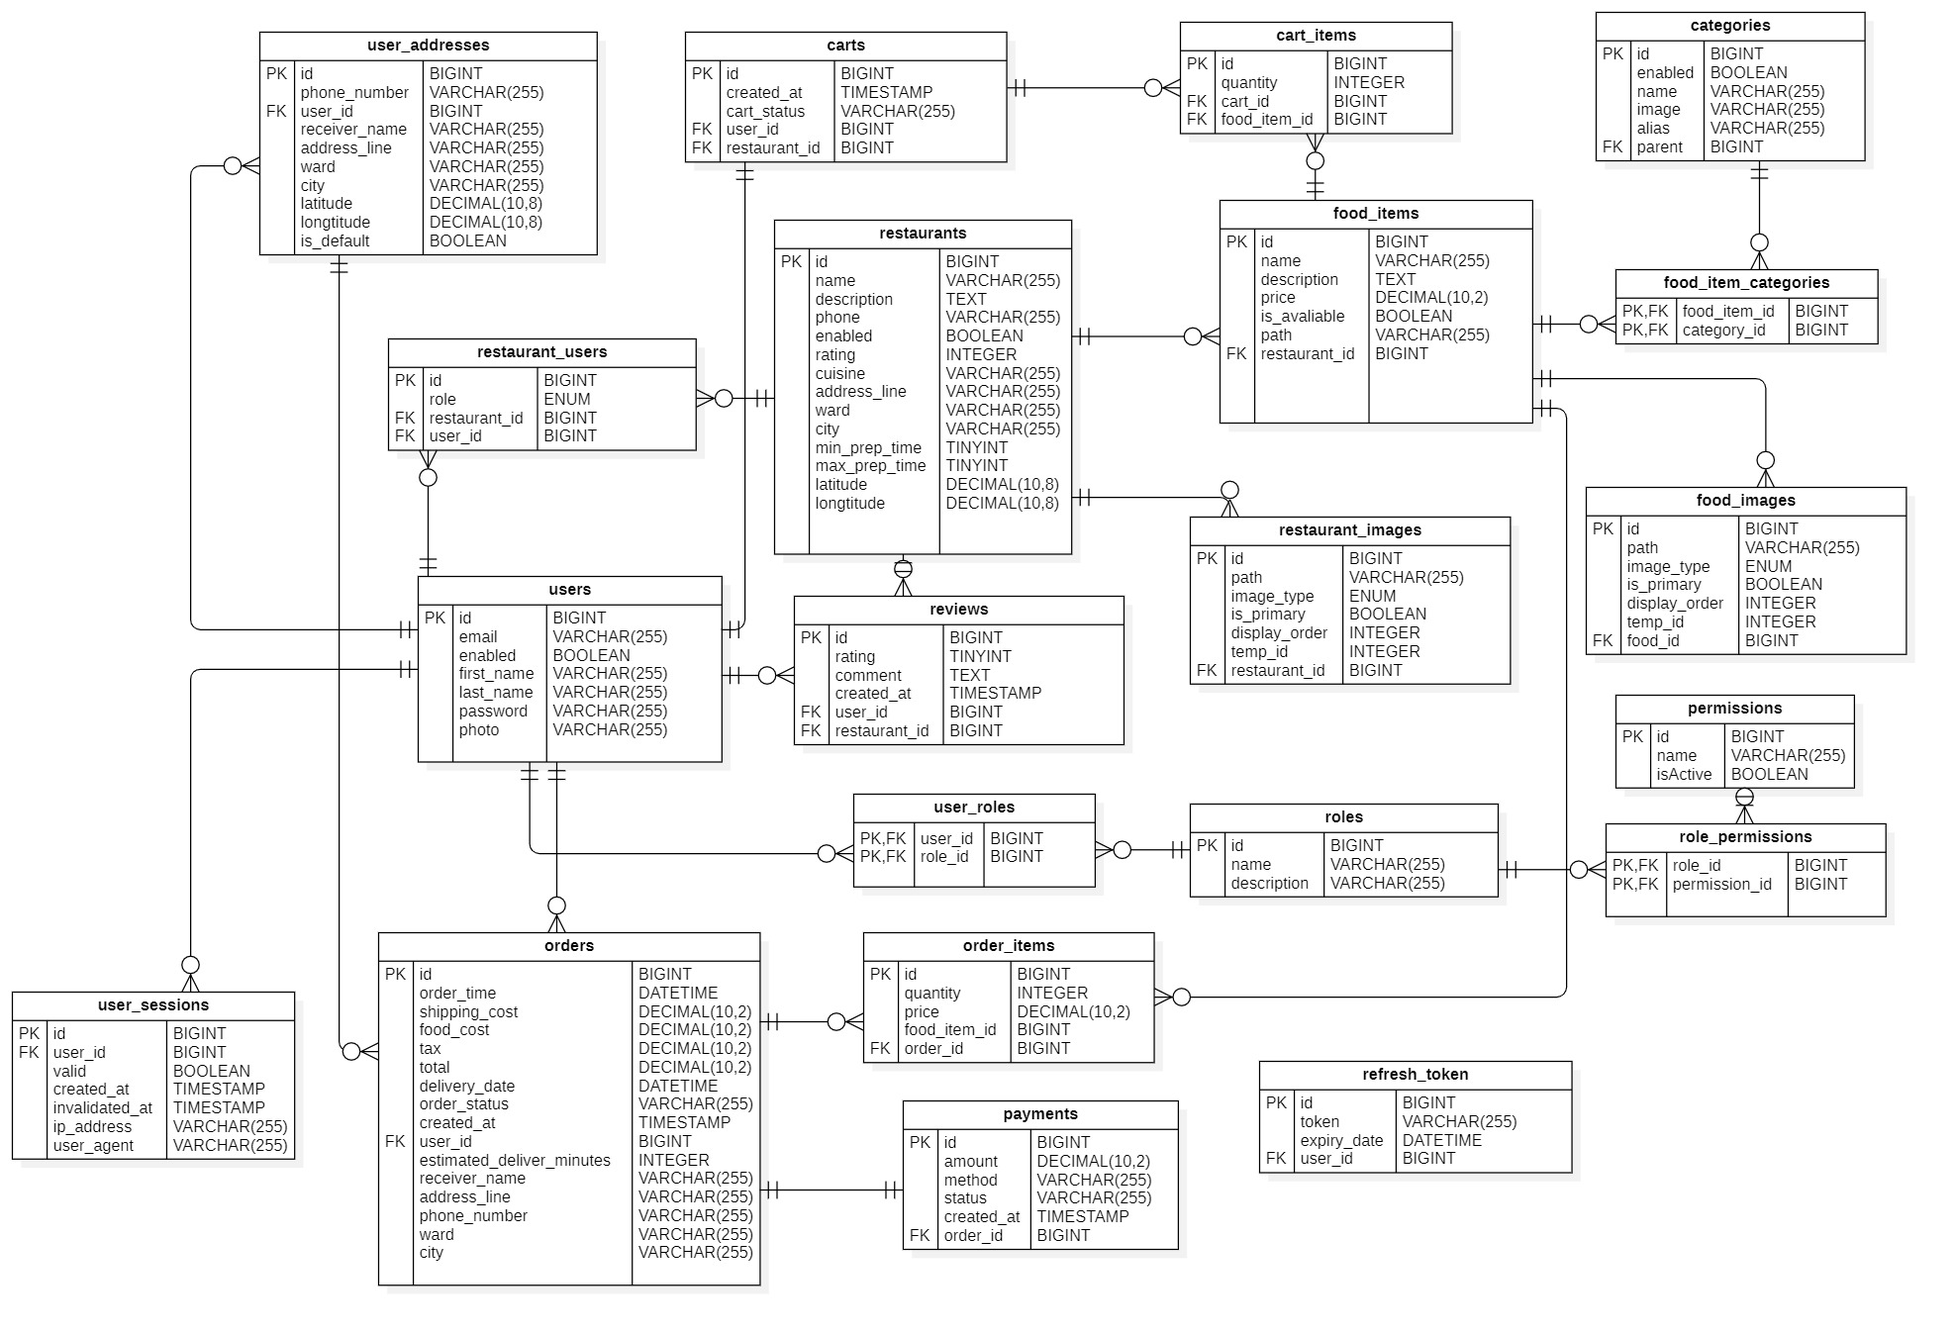
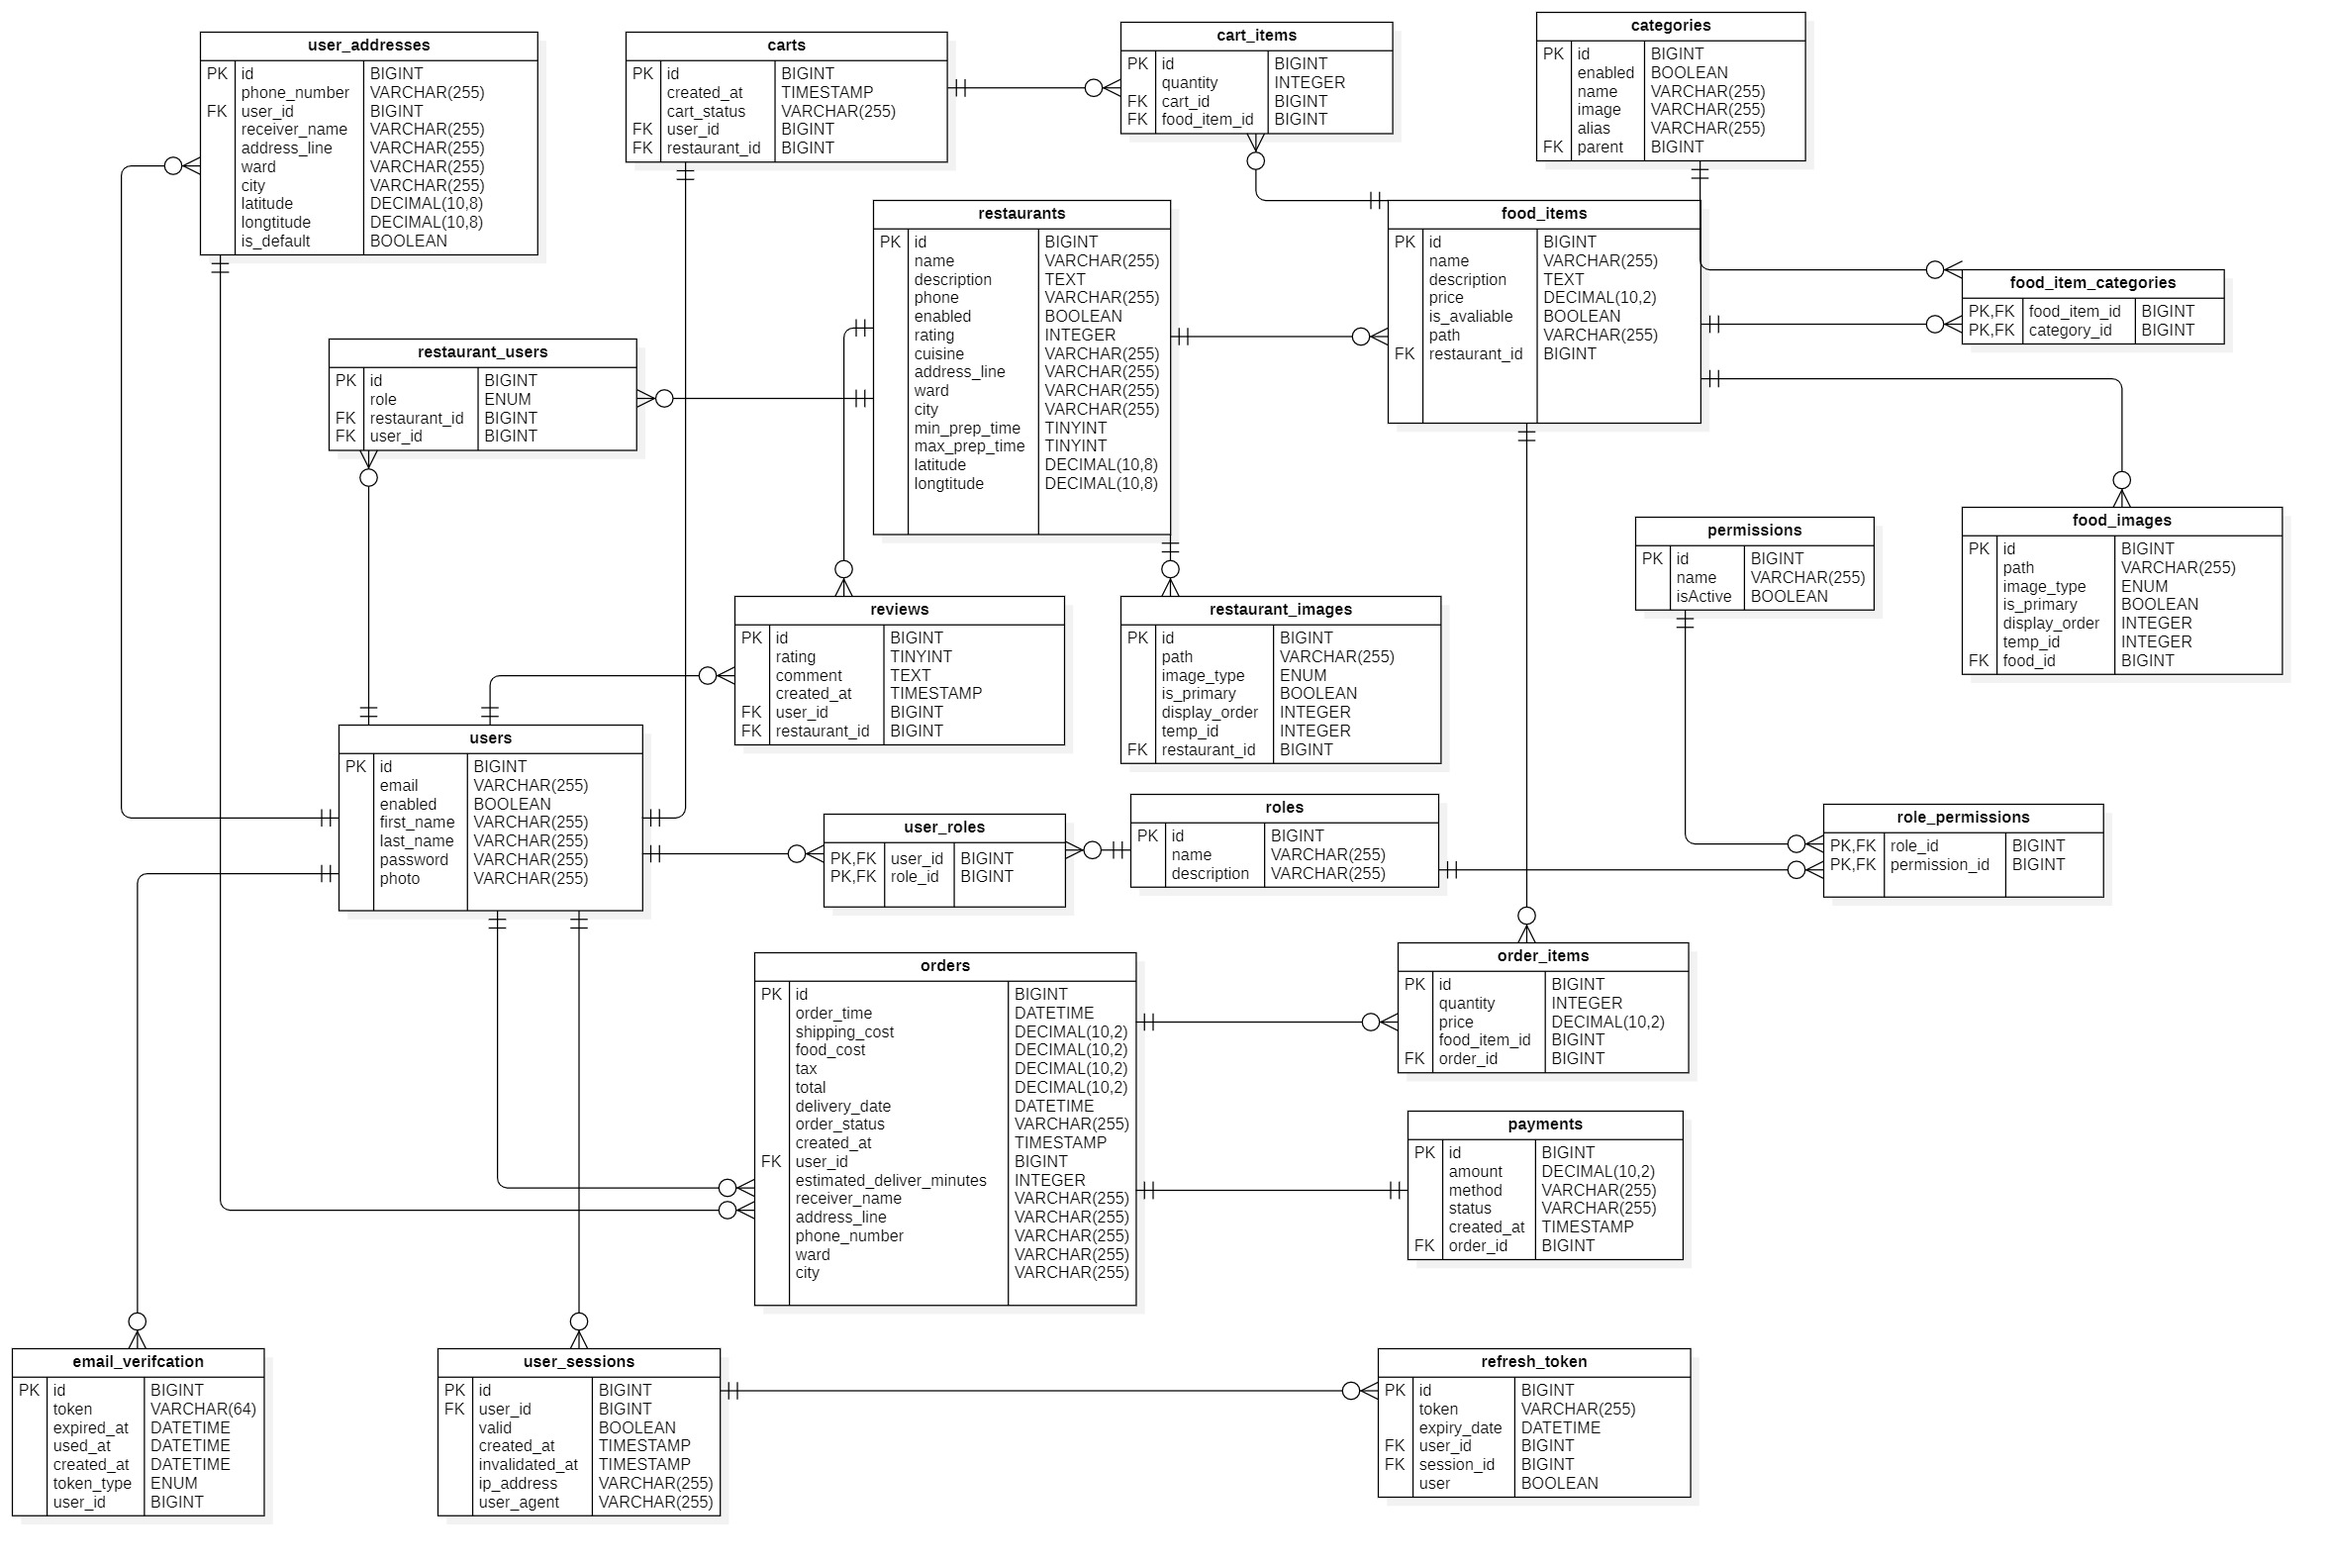
update schema image

Changed region(s): [[0.0, 0.0, 0.9884, 0.9659], [0.803, 0.0, 0.9575, 0.1246], [0.7722, 0.1558, 0.803, 0.1869]]

diff --git a/README.md b/README.md
@@ -1,205 +1,151 @@
 # Hungry Belly
 
-Hungry Belly is a full-stack food platform with an admin back office and a customer-facing web app. The repository includes a Spring Boot API, React frontend applications, media-upload utilities, and management flows for users, roles, restaurants, categories, foods, and restaurant staff membership.
-
-## Overview
-
-- `hungry-belly-backend` - Spring Boot REST API
-- `hungry-belly-frontend/admin-app` - React + Vite admin dashboard
-- `hungry-belly-frontend/customer-app` - React + Vite customer storefront
-- `resources` - project assets, including the database schema image
-
-## Current capabilities
-
-- **Authentication and account management** - JWT-based login, refresh-token flow, logout, current-user profile, and account update APIs.
-- **Role and permission administration** - manage roles, inspect permissions, and control access to protected admin features.
-- **User operations** - paginated user management, password reset, status updates, and CSV/XLSX export.
-- **Restaurant operations** - create, edit, activate/deactivate, delete, and inspect restaurants.
-- **Restaurant membership management** - list members, add members, change member roles, remove members, list the signed-in user's restaurants, and transfer restaurant ownership.
-- **Catalog management** - manage hierarchical categories and food items.
-- **Media uploads** - generate presigned upload URLs and temporary upload sessions for client-side file handling.
-- **Operational cleanup** - scheduled cleanup services remove orphaned uploads and generated export files.
-- **API documentation** - OpenAPI/Swagger UI is enabled in the backend.
-
-## Tech stack
-
-| Layer              | Technologies                                                                  |
-| ------------------ | ----------------------------------------------------------------------------- |
-| Backend            | Java 21, Spring Boot 3.5, Spring Security, Spring Data JPA, MySQL, H2 (tests) |
-| Frontend           | React 19, Vite 8, React Router 7, TanStack Query 5, Axios, Bootstrap 5        |
-| Storage and export | AWS SDK for S3-compatible storage, Apache POI, Super CSV                      |
+Hungry Belly is a monorepo centered on a Spring Boot backend for authentication, user and role administration, restaurant management, catalog management, storage uploads, and export workflows.
 
 ## Repository structure
 
 ```text
-hungry-belly/
-|-- hungry-belly-backend/
-|-- hungry-belly-frontend/
-|   |-- admin-app/
-|   `-- customer-app/
-`-- resources/
+hungry-belly\
+|-- hungry-belly-backend\
+|-- hungry-belly-frontend\
+|   |-- admin-app\
+|   `-- customer-app\
+`-- resources\
 ```
 
-## Database schema
+## Backend snapshot
 
-![Hungry Belly schema](resources/schema/hungry-belly.jpg)
+**Location:** `hungry-belly-backend\`
 
-## Getting started
+| Area | Current backend behavior |
+| --- | --- |
+| Authentication | Login, refresh-token rotation, logout, current-user profile, and account update |
+| Users | Paginated user management, stats, password reset, status toggle, and export |
+| Roles and permissions | Role CRUD, role name lookup, and permission listing |
+| Restaurants | Restaurant CRUD, status toggle, member management, and ownership transfer |
+| Catalog | Category CRUD, hierarchy view, export, and food CRUD with status toggle |
+| Storage | Presigned upload URL generation and temporary upload sessions |
+| Operations | Scheduled cleanup of orphaned images and exported files |
 
-### Prerequisites
+## Backend stack
 
 - Java 21
-- Node.js 20+
-- MySQL 8+
+- Spring Boot 3.5.11
+- Spring Web, Validation, Security, Data JPA
+- MySQL for normal development
+- H2 for tests
+- JWT authentication with HTTP-only cookies
+- Springdoc OpenAPI / Swagger UI
+- S3-compatible object storage integration
+- Apache POI and Super CSV for export generation
 
-### 1. Configure the backend
+## Backend architecture
 
-Create `hungry-belly-backend\.env`:
+The backend follows a package-by-feature structure under `src\main\java\com\eddie\hungry_belly_backend\`, with feature modules such as:
+
+- `auth`
+- `user`
+- `role`
+- `permission`
+- `restaurant`
+- `restaurantuser`
+- `category`
+- `food`
+
+Shared packages include `common`, `config`, `entity`, `exception`, `scheduler`, `security`, `session`, and `token`.
+
+## Configuration
+
+The backend imports local environment variables from `hungry-belly-backend\.env`.
+
+Create `hungry-belly-backend\.env` with:
 
 ```env
 DB_URL=jdbc:mysql://localhost:3306/hungry_belly
-DB_USERNAME=your_mysql_username
-DB_PASSWORD=your_mysql_password
+DB_USERNAME=
+DB_PASSWORD=
 
-BUCKET_NAME=your_bucket_name
-ACCESS_BUCKET_KEY=your_storage_access_key
-SECRET_BUCKET_KEY=your_storage_secret_key
-REGION_NAME=your_region
-S3_ENDPOINT=your_s3_endpoint
-SIGN_ENDPOINT=your_sign_endpoint
-SERVICE_ROLE_KEY=your_service_role_key
+BUCKET_NAME=
+ACCESS_BUCKET_KEY=
+SECRET_BUCKET_KEY=
+REGION_NAME=
+S3_ENDPOINT=
+SIGN_ENDPOINT=
+SERVICE_ROLE_KEY=
 
-JWT_SECRET=your_jwt_secret
+JWT_SECRET=
 ```
 
-The backend loads this file through `spring.config.import`, uses `/api/v1` as the API prefix, and allows frontend requests from `http://localhost:5173`.
+Notes:
 
-### 2. Run the backend
+- `JWT_SECRET` must be Base64-encoded because the backend decodes it before signing tokens.
+- The API base path is `/api/v1`.
+- Local CORS is currently configured for `http://localhost:5173`.
+- JPA schema generation is set to `ddl-auto: update`.
 
-From `hungry-belly-backend`:
+## Run the backend
 
-```bash
+From `hungry-belly-backend\` on Windows:
+
+```powershell
 .\mvnw.cmd spring-boot:run
 ```
 
-The API starts on `http://localhost:8080` by default.
+Default local URLs:
 
-### 3. Configure the frontend
+- API: `http://localhost:8080`
+- Swagger UI: `http://localhost:8080/swagger-ui/index.html`
 
-Create `hungry-belly-frontend/admin-app/.env`:
+## Build and test
+
+From `hungry-belly-backend\`:
+
+```powershell
+.\mvnw.cmd -q test
+.\mvnw.cmd -q -DskipTests package
+```
+
+Tests use H2 through `src\test\resources\application-test.yaml`.
+
+## API areas
+
+All backend endpoints are served under `/api/v1`.
+
+| Area | Base endpoints |
+| --- | --- |
+| Auth | `/auth/login`, `/auth/refresh-token`, `/auth/logout`, `/auth/me`, `/auth/update-account` |
+| Users | `/users`, `/users/page`, `/users/stats`, `/users/{id}/password`, `/users/{id}/status`, `/users/export/{format}` |
+| Roles | `/roles`, `/roles/names`, `/roles/{id}` |
+| Permissions | `/permissions` |
+| Restaurants | `/restaurants`, `/restaurants/page`, `/restaurants/{id}/status` |
+| Restaurant members | `/restaurants/{restaurantId}/members`, `/restaurants/mine`, `/restaurants/{restaurantId}/transfer-ownership` |
+| Categories | `/categories`, `/categories/roots`, `/categories/in-form`, `/categories/{id}/status`, `/categories/export/{format}` |
+| Foods | `/foods`, `/foods/page`, `/foods/{id}/status` |
+| Storage | `/storage/presigned-urls`, `/storage/temp-session` |
+
+Security notes from the current backend configuration:
+
+- `/users/**` and `/roles/**` require the `ADMIN` role.
+- `/restaurants/**` and `/foods/**` allow `ADMIN` or `PARTNER`.
+- Swagger and auth login/refresh routes are publicly accessible.
+
+## Frontend integration note
+
+The repo also contains:
+
+- `hungry-belly-frontend\admin-app\`
+- `hungry-belly-frontend\customer-app\`
+
+For local admin frontend development, point the app to:
 
 ```env
 VITE_API_URL=http://localhost:8080/api/v1
 ```
 
-The customer app currently uses local mock data and does not require API environment variables.
+## Docker
 
-### 4. Run the frontend
+`hungry-belly-backend\Dockerfile` builds the backend with Maven and Temurin 21, packages the Spring Boot jar, runs as a non-root user, and exposes port `8080`.
 
-From `hungry-belly-frontend/admin-app`:
+## Database schema
 
-```bash
-npm install
-npm run dev
-```
-
-In a separate terminal, from `hungry-belly-frontend/customer-app`:
-
-```bash
-npm install
-npm run dev
-```
-
-By default:
-
-- Admin app: `http://localhost:5173`
-- Customer app: run with `npm run dev -- --port 5174` if `5173` is already in use
-
-## Useful commands
-
-### Backend
-
-```bash
-.\mvnw.cmd spring-boot:run
-.\mvnw.cmd -q test
-.\mvnw.cmd -q -DskipTests package
-```
-
-### Admin frontend (`hungry-belly-frontend/admin-app`)
-
-```bash
-npm install
-npm run dev
-npm run build
-npm run lint
-npm run preview
-```
-
-### Customer frontend (`hungry-belly-frontend/customer-app`)
-
-```bash
-npm install
-npm run dev
-npm run build
-npm run lint
-npm run preview
-```
-
-## API overview
-
-Base path: `/api/v1`
-
-Main modules:
-
-- `/auth`
-- `/users`
-- `/roles`
-- `/permissions`
-- `/restaurants`
-- `/categories`
-- `/foods`
-- `/storage`
-
-Restaurant membership endpoints are grouped under `/restaurants`, including:
-
-- `GET /restaurants/{restaurantId}/members`
-- `POST /restaurants/{restaurantId}/members`
-- `PATCH /restaurants/{restaurantId}/members/{membershipId}/role`
-- `DELETE /restaurants/{restaurantId}/members/{membershipId}`
-- `GET /restaurants/mine`
-- `POST /restaurants/{restaurantId}/transfer-ownership`
-
-Swagger UI is available at `http://localhost:8080/swagger-ui/index.html`.
-
-## Frontend routes
-
-Admin app routes include:
-
-- `/login`
-- `/`
-- `/users`
-- `/roles`
-- `/profile`
-- `/restaurants`
-- `/categories`
-- `/foods`
-- `/orders`
-- `/access-denied`
-
-Customer app routes include:
-
-- `/`
-- `/restaurants`
-- `/restaurant/:id`
-- `/cart`
-- `/orders`
-- `/contact`
-
-The admin app sends credentials with every request and automatically attempts token refresh on `401` responses.
-
-## Notes
-
-- The backend uses MySQL in normal development and H2 in the test profile.
-- Backend security protects user and role management for admins, while restaurant and food features are available to admin and partner roles.
-- The admin app contains the latest restaurant member-management UI, including add member, role change, remove member, and transfer owner flows.
-- The customer app currently focuses on browsing/menu/order UI flows backed by local data.
+![Hungry Belly schema](resources/schema/hungry-belly.jpg)
